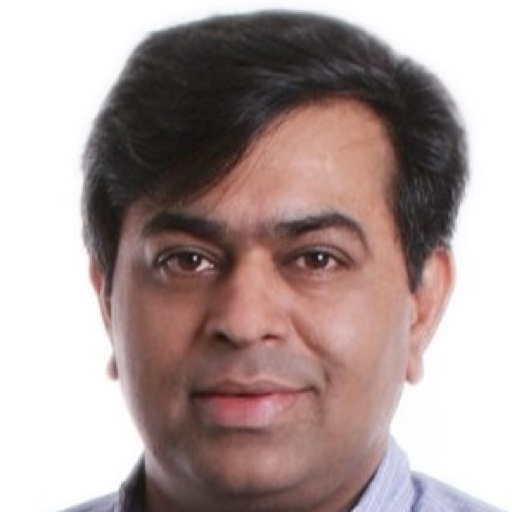
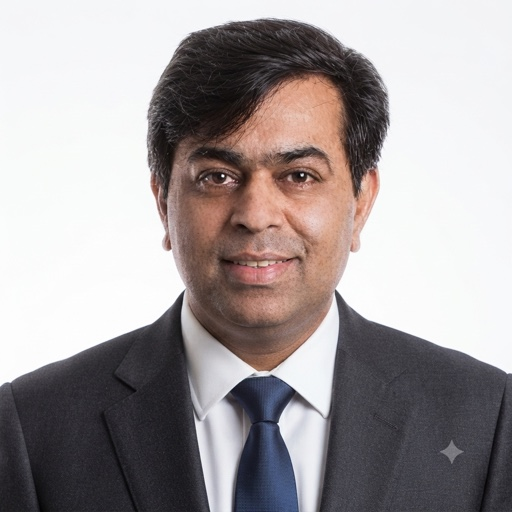
Use higher-resolution studio photo for Sandeep Sawhney
Replaces a 296px crop, the softest source in the set, with a 1024px studio
original normalised to the same 512x512 as the rest.

diff --git a/logs/PROJECT_LOG.md b/logs/PROJECT_LOG.md
@@ -695,3 +695,13 @@
 **Verification:** 10 files, all distinct by MD5; screenshots re-captured at all three breakpoints.
 
 **Status:** ✅ SUCCESS
+
+## 2026-09-22 — Leadership section: Sandeep Sawhney photo upgraded
+
+**Change:** `public/images/leadership/sandeep-sawhney.jpg` replaced with a 1024×1024 studio original (same subject), re-normalised to 512×512 JPEG q88. Previous file was a 296px crop — the softest in the set.
+
+**Effect:** three of the ten portraits (Shankar, Srinivas Chamarthi, Sandeep) are now studio shots on light backdrops, which anchors the top row. Nari's 200px file is now the weakest remaining source.
+
+**Verification:** 10 files, all distinct by MD5; screenshots re-captured at all three breakpoints.
+
+**Status:** ✅ SUCCESS
